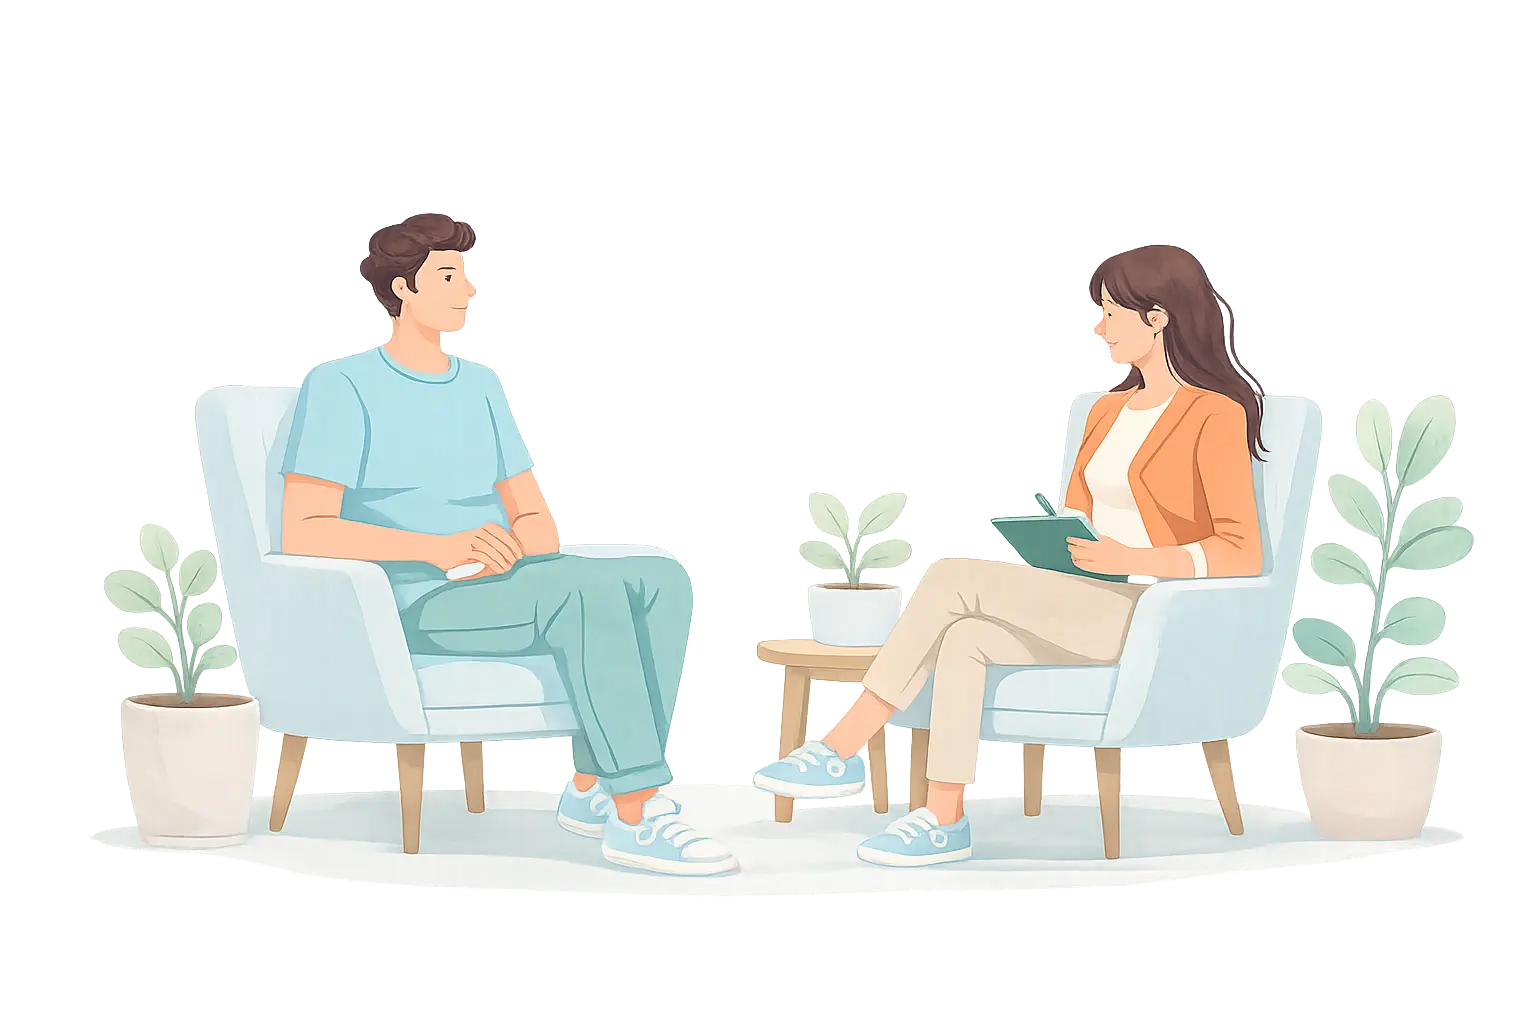
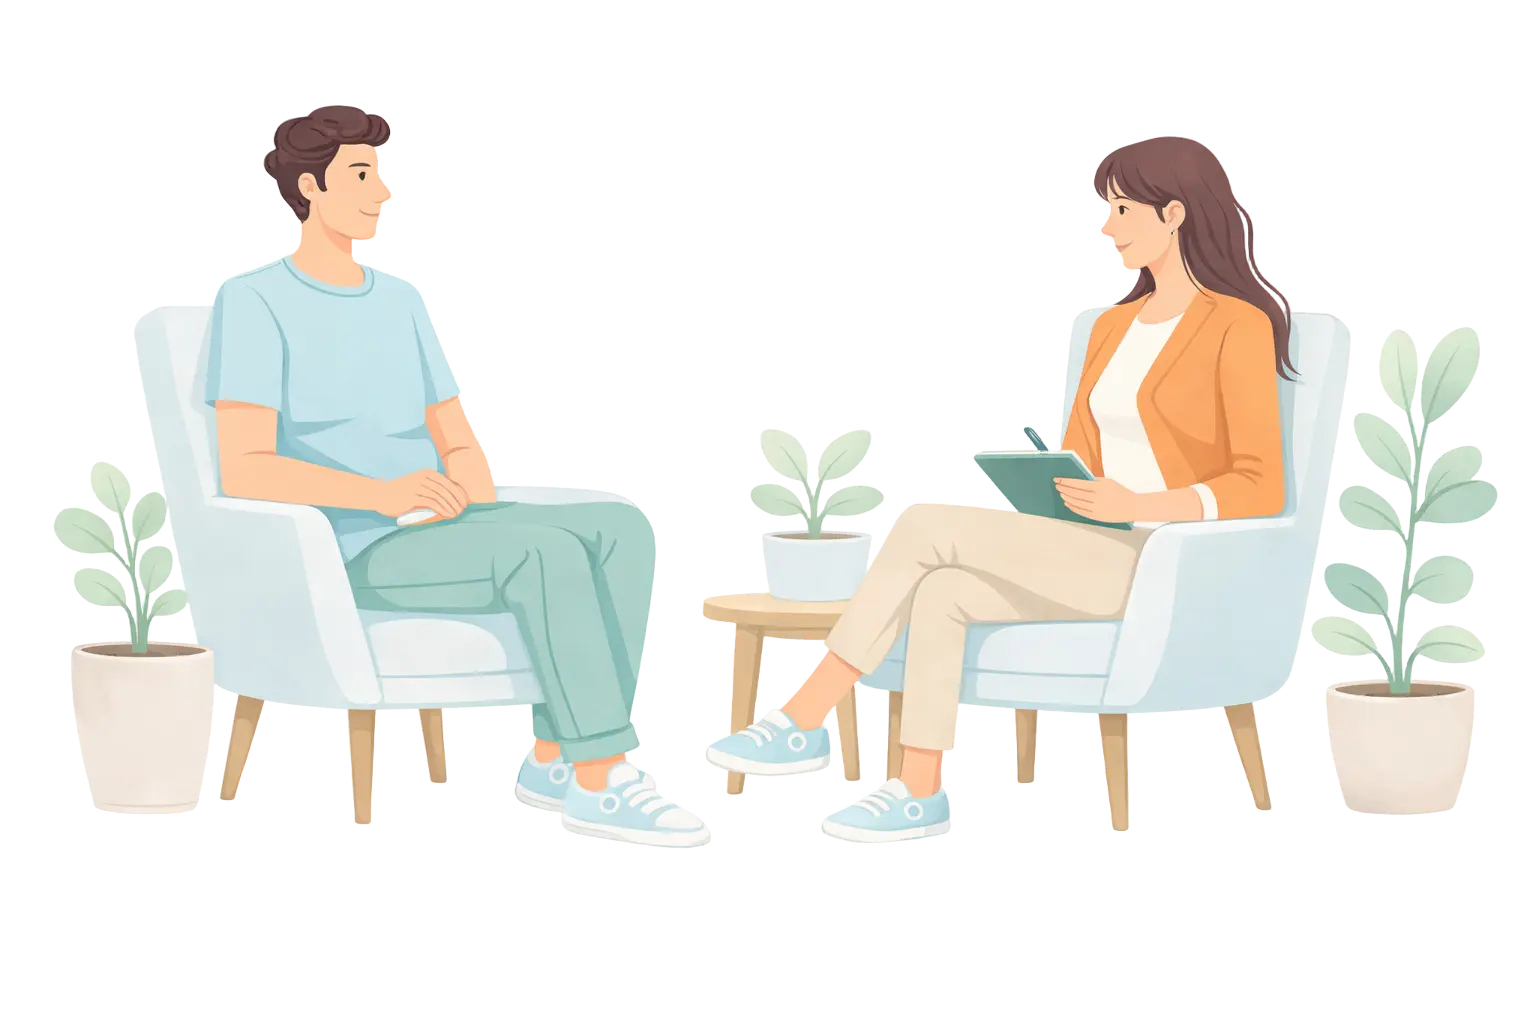
Update graphic

Changed region(s): [[0.0312, 0.0938, 1.0, 0.875]]

diff --git a/src/pages/home/sections/what-is-therapy/WhatIsTherapySection.tsx b/src/pages/home/sections/what-is-therapy/WhatIsTherapySection.tsx
@@ -2,6 +2,7 @@ import "./whatistherapy.style.css";
 import Badge from "@/components/UI/badge/Badge";
 import { Flower } from "lucide-react";
 import flower from "@/assets/decorative/therapy-flower.webp";
+import therapyMind from "@/assets/therapist/therapy-mind.webp";
 import TrustedSection from "@/components/section/TrustedSection";
 import Button from "@/components/UI/buttons/CTAbutton";
 import { Link } from "react-router";
@@ -23,13 +24,13 @@ const WhatIsTherapySection = () => {
           <h2 className="section-heading mb-5">What Is Therapy, Really?</h2>
         </div>
 
-        <div className="grid grid-cols-1 md:grid-cols-2 gap-6">
+        <div className="grid grid-cols-1 md:grid-cols-2 gap-4">
           <div className="order-2 md:order-1 grid place-items-start">
-            <div className="aspect-square w-full max-w-md">
+            <div className="w-full max-w-sm mx-auto">
               <img
-                src={flower}
-                alt="what is therapy"
-                className="w-full h-full rounded-full object-cover"
+                src={therapyMind}
+                alt="Growing mind in bloom"
+                className="w-full h-full"
               />
             </div>
           </div>

diff --git a/src/components/section/MythFactCard.tsx b/src/components/section/MythFactCard.tsx
@@ -69,7 +69,7 @@ const mythFactCard = () => {
 
             <div className={`grid transition-all duration-300 ease-in-out ${isOpen ? "grid-rows-[1fr] opacity-100 mt-4 " : "grid-rows-[0fr] opacity-0 mt-0"}`}>
                 <div className="overflow-hidden">
-                  <p className="translate-y-0">
+                  <p className="translate-y-0 !mt-0">
                     <span className="font-semibold text-primary">Fact:</span>{" "}
                     <span className="font-normal">{fact}</span>
                   </p>

diff --git a/src/pages/learn/sections/HowTherapyMightHelp.tsx b/src/pages/learn/sections/HowTherapyMightHelp.tsx
@@ -75,7 +75,7 @@ const HowTherapyMightHelp = () => {
                 <IconBadge
                   icon={icon}
                   iconClassName={`w-4 h-4 ${iconClass}`}
-                  wrapperClassName="w-10 h-10 rounded-full transition-colors duration-200  group-hover:bg-[hsl(var(--teal))]/20"
+                  wrapperClassName="w-10 h-10 rounded-full transition-colors duration-200 "
                 />
                 <p className="font-normal mt-0 leading-8">{body}</p>
               </div>

diff --git a/src/pages/learn/sections/UnderstandingTherapy.tsx b/src/pages/learn/sections/UnderstandingTherapy.tsx
@@ -1,6 +1,6 @@
 import Badge from "@/components/UI/badge/Badge";
 import { BookOpen } from "lucide-react";
-import groupTherapy from "@/assets/therapist/group-therapy2.webp"
+import groupTherapy from "@/assets/therapist/group-therapy1.webp"
 
 const UnderstandingTherapy = () => {
   return (
